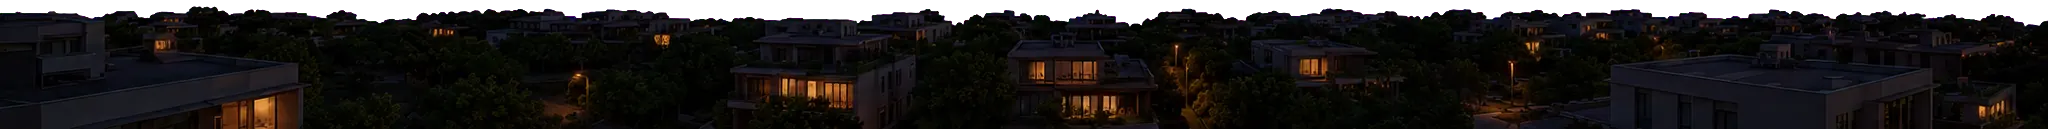
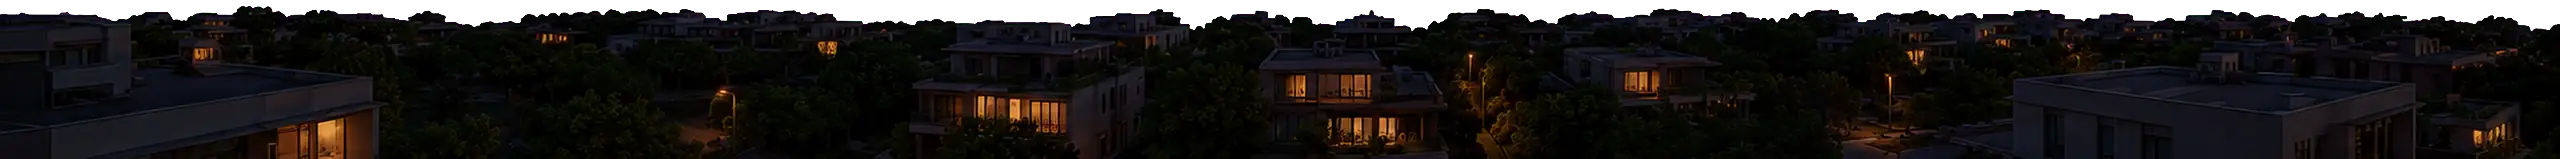
Studio (preview, look b): the city from the 4K pictures and the wider skyline, keyed and lined up again at 2560 px, 716 KB in all

diff --git a/src/lib/studio/backdrop.ts b/src/lib/studio/backdrop.ts
@@ -79,9 +79,9 @@ export const BACKDROP = {
 	photo: {
 		on: false,
 		sky: { radius: 40, bottom: -6, height: 33, size: [2048, 683] },
-		skyline: { radius: 38, bottom: -1.8, height: 16.5, size: [2048, 639] },
-		river: { radius: 31, bottom: -9, height: 19, size: [2048, 598] },
-		near: { radius: 26, bottom: -11.4, height: 3.4, size: [2048, 129] },
+		skyline: { radius: 38, bottom: -1.8, height: 16.5, size: [2560, 622] },
+		river: { radius: 31, bottom: -9, height: 19, size: [2560, 744] },
+		near: { radius: 26, bottom: -11.4, height: 3.4, size: [2560, 159] },
 		/** In the river picture (0 to 1 across it, and down from its top): the far bank's road, the water, the bridge's deck and span. */
 		/** How far the river picture is turned round the room (radians): its bridge, at the picture's right, into the back wall's view. */
 		turn: 0.41,

diff --git a/scripts/studio-city.py b/scripts/studio-city.py
@@ -1,7 +1,7 @@
 """
 The city outside the studio's glass (look b, backdrop.ts) from the pictures in assets-src/studio/city/:
 
-    sky-, skyline-, river-, near-  each -night.png and -golden.png
+    sky-, skyline-…-wide, river-, near-  each -night.png and -golden.png   (the skyline from skyline-THEME-wide.png)
 
 made on a flat bright green (#00FF00) where the layers behind should show (the sky has none). For each:
   - the green is keyed out: each pixel's coverage from how much greener than red and blue it is, then its own colour
@@ -10,32 +10,35 @@ made on a flat bright green (#00FF00) where the layers behind should show (the s
   - the empty rows above the layer's top are cropped off (the same rows for both versions), so a layer is as wide round
     the arc as it can be without stretching a building; backdrop.ts sizes each layer's arc from its proportions;
   - the golden version is lined up on the night one (the scale and shift that best overlay their outlines);
-  - written at WIDTH px wide to public/studio/window/city-LAYER-THEME.webp, with each layer's size in city.json.
+  - written at its layer's width (WIDTHS: the wide skyline gets the most) to public/studio/window/city-LAYER-THEME.webp,
+    with each layer's size in city.json.
 A picture that does not key cleanly (too little green, or see-through holes inside the city) is named, with what to
 change in its prompt.
 
-    python scripts/studio-city.py [--width 2048] [--quality 78]
+    python scripts/studio-city.py [--quality 70]
 """
 import argparse, json, os
 import numpy as np
 from PIL import Image
 
 ap = argparse.ArgumentParser()
-ap.add_argument("--width", type=int, default=2048)
-ap.add_argument("--quality", type=int, default=78)
+ap.add_argument("--quality", type=int, default=70)
 args = ap.parse_args()
 SRC = os.path.join("assets-src", "studio", "city")
 OUT = os.path.join("public", "studio", "window")
 os.makedirs(OUT, exist_ok=True)
 LAYERS = ["sky", "skyline", "river", "near"]
 THEMES = ["night", "golden"]
+WIDTHS = {"sky": 2048, "skyline": 2560, "river": 2560, "near": 2560}
+SOURCES = {"skyline": "skyline-{theme}-wide"}  # (the wider skyline, from 3840 x 1280)
 E0, E1 = 0.2, 0.7  # excess green (share of 255) at which a pixel starts to go see-through, and is wholly so
 
 
 def load(layer, theme):
-    im = Image.open(os.path.join(SRC, f"{layer}-{theme}.png")).convert("RGB")
-    h = round(im.height * args.width / im.width)
-    return np.asarray(im.resize((args.width, h), Image.LANCZOS), np.float32) / 255
+    name = SOURCES.get(layer, "{layer}-{theme}").format(layer=layer, theme=theme)
+    im = Image.open(os.path.join(SRC, name + ".png")).convert("RGB")
+    w = WIDTHS[layer]
+    return np.asarray(im.resize((w, round(im.height * w / im.width)), Image.LANCZOS), np.float32) / 255
 
 
 def key(rgb):
@@ -94,7 +97,7 @@ for layer in LAYERS:
     if layer == "sky":
         for t in THEMES:
             Image.fromarray((pics[t] * 255).astype(np.uint8)).save(os.path.join(OUT, f"city-sky-{t}.webp"), quality=args.quality - 6, method=6)
-        meta["sky"] = {"width": args.width, "height": pics["night"].shape[0]}
+        meta["sky"] = {"width": WIDTHS["sky"], "height": pics["night"].shape[0]}
         continue
     keyed = {t: key(pics[t]) for t in THEMES}
     for t in THEMES:
@@ -105,7 +108,7 @@ for layer in LAYERS:
     colour, alpha = keyed["golden"]
     rgba = Image.fromarray(np.dstack([colour * 255, alpha * 255]).astype(np.uint8), "RGBA")
     rgba = rgba.resize((round(rgba.width * s), round(rgba.height * s)), Image.LANCZOS)
-    placed = Image.new("RGBA", (args.width, pics["night"].shape[0]), (0, 0, 0, 0))
+    placed = Image.new("RGBA", (WIDTHS[layer], pics["night"].shape[0]), (0, 0, 0, 0))
     placed.paste(rgba, (dx, dy))
     arr = np.asarray(placed, np.float32) / 255
     keyed["golden"] = (arr[..., :3], arr[..., 3])
@@ -115,7 +118,7 @@ for layer in LAYERS:
         colour, alpha = keyed[t]
         out = np.dstack([colour[top:] * 255, alpha[top:] * 255]).astype(np.uint8)
         Image.fromarray(out, "RGBA").save(os.path.join(OUT, f"city-{layer}-{t}.webp"), quality=args.quality, alpha_quality=90, method=6)
-    meta[layer] = {"width": args.width, "height": pics["night"].shape[0] - top}
+    meta[layer] = {"width": WIDTHS[layer], "height": pics["night"].shape[0] - top}
 
 json.dump(meta, open(os.path.join(OUT, "city.json"), "w"), indent=1)
 for layer in LAYERS:
